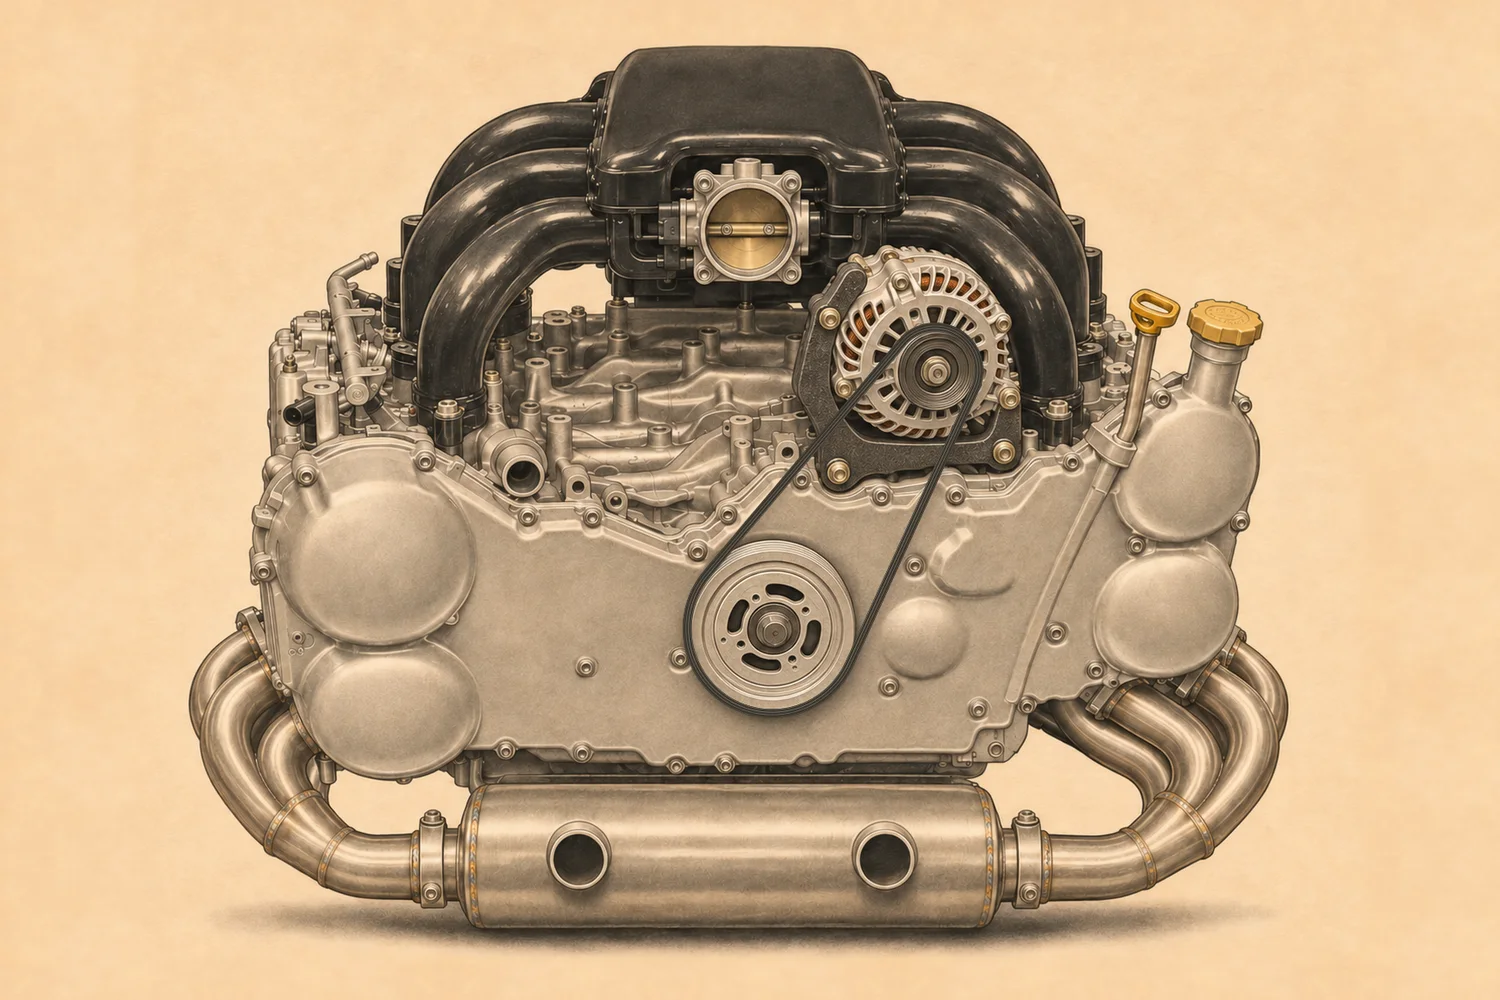
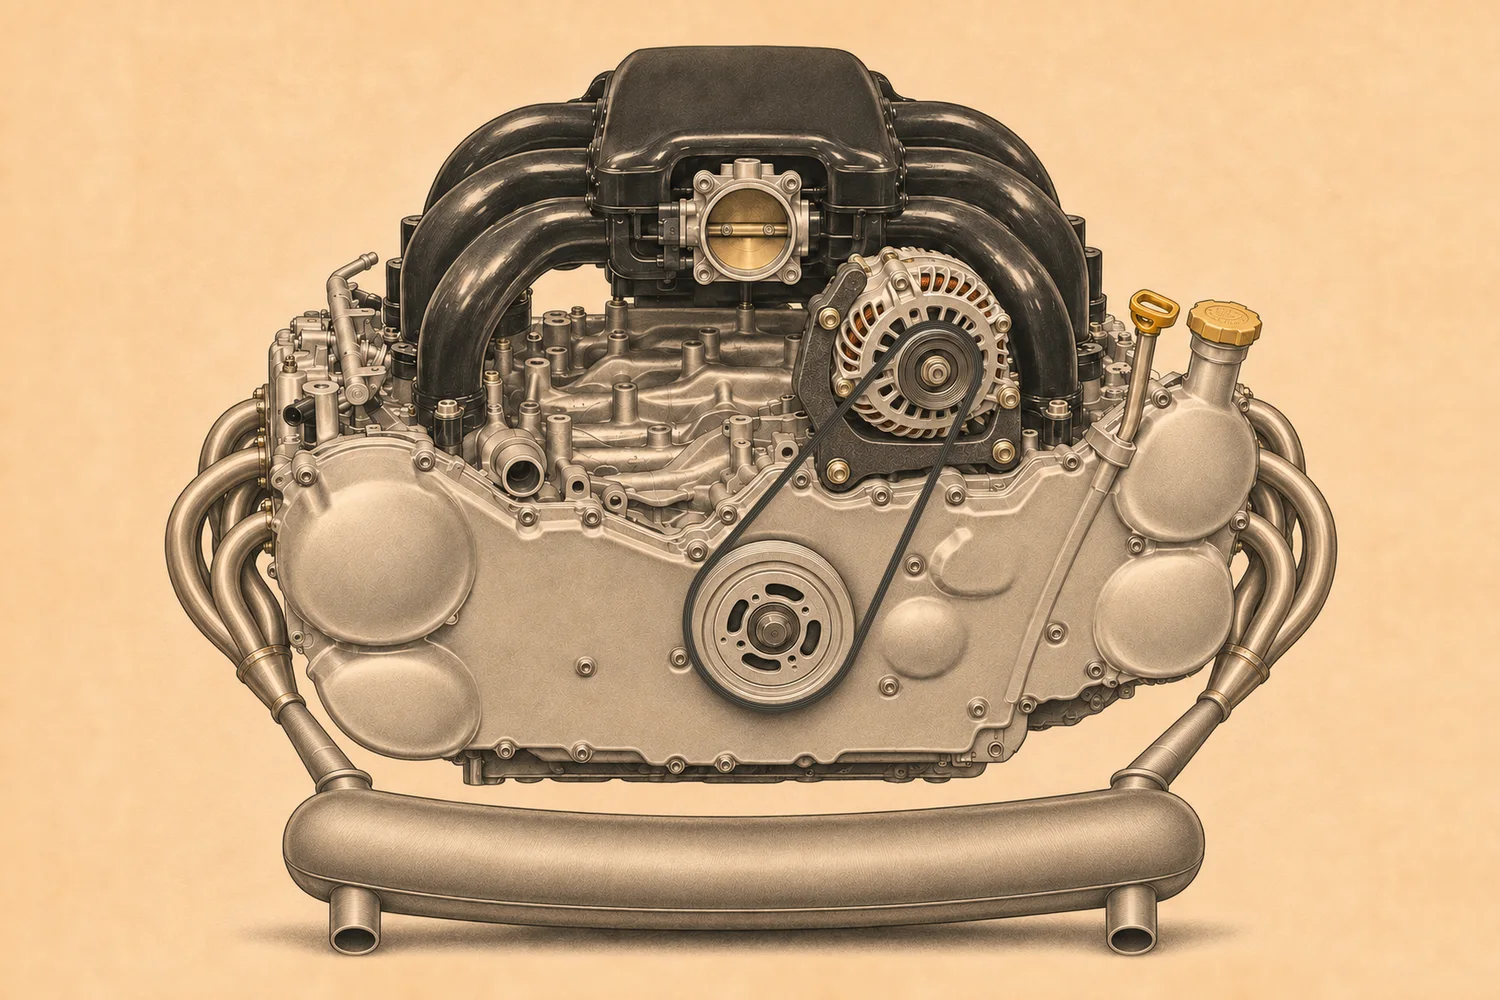
Engine plate: real 911 style looped headers and oval muffler

diff --git a/index.html b/index.html
@@ -342,7 +342,7 @@ footer .ig{color:var(--cyan);font-weight:800;text-decoration:none;letter-spacing
         <li>Clean mil-spec harness with a compact interface box</li>
       </ul>
     </div>
-    <div class="media plate rise"><img src="img/kit-engine.webp" alt="Vintage service manual style drawing of a flat six engine seen from the front, with a reversed intake manifold, throttle body facing forward, alternator on a custom bracket, stainless headers and a dual outlet muffler" loading="lazy"></div>
+    <div class="media plate rise"><img src="img/kit-engine.webp" alt="Vintage service manual style drawing of a flat six engine seen from the front, with a reversed intake manifold, throttle body facing forward, alternator on a custom bracket, looping 911-style headers and a curved oval dual outlet muffler" loading="lazy"></div>
   </div>
 </section>
 <section class="block product" id="gearbox">
